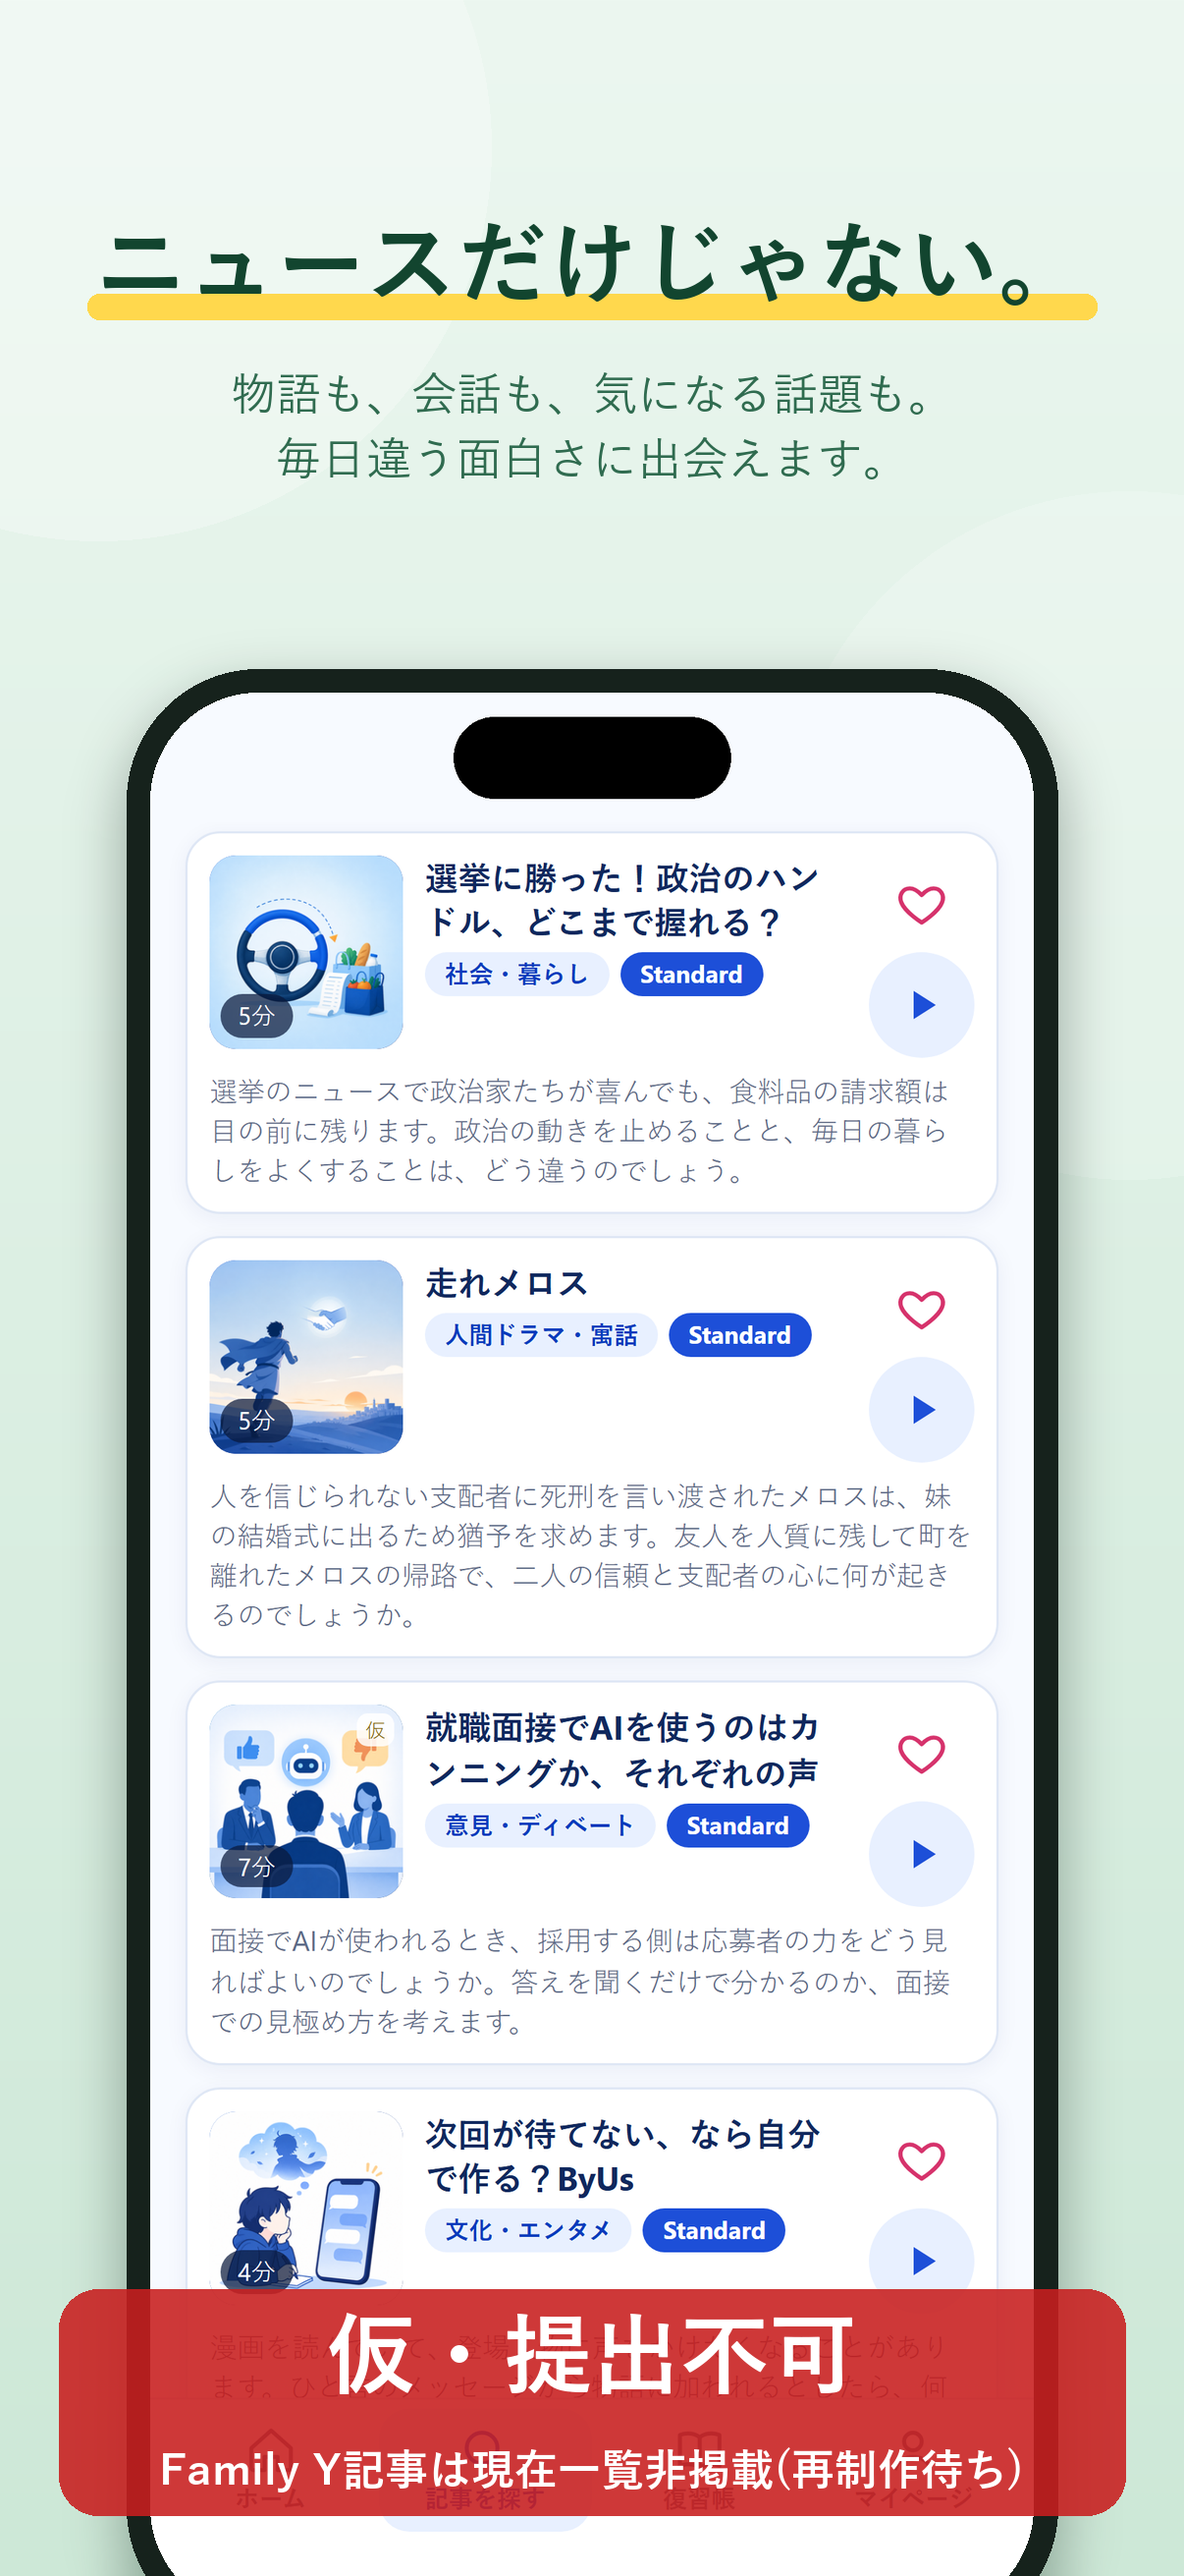
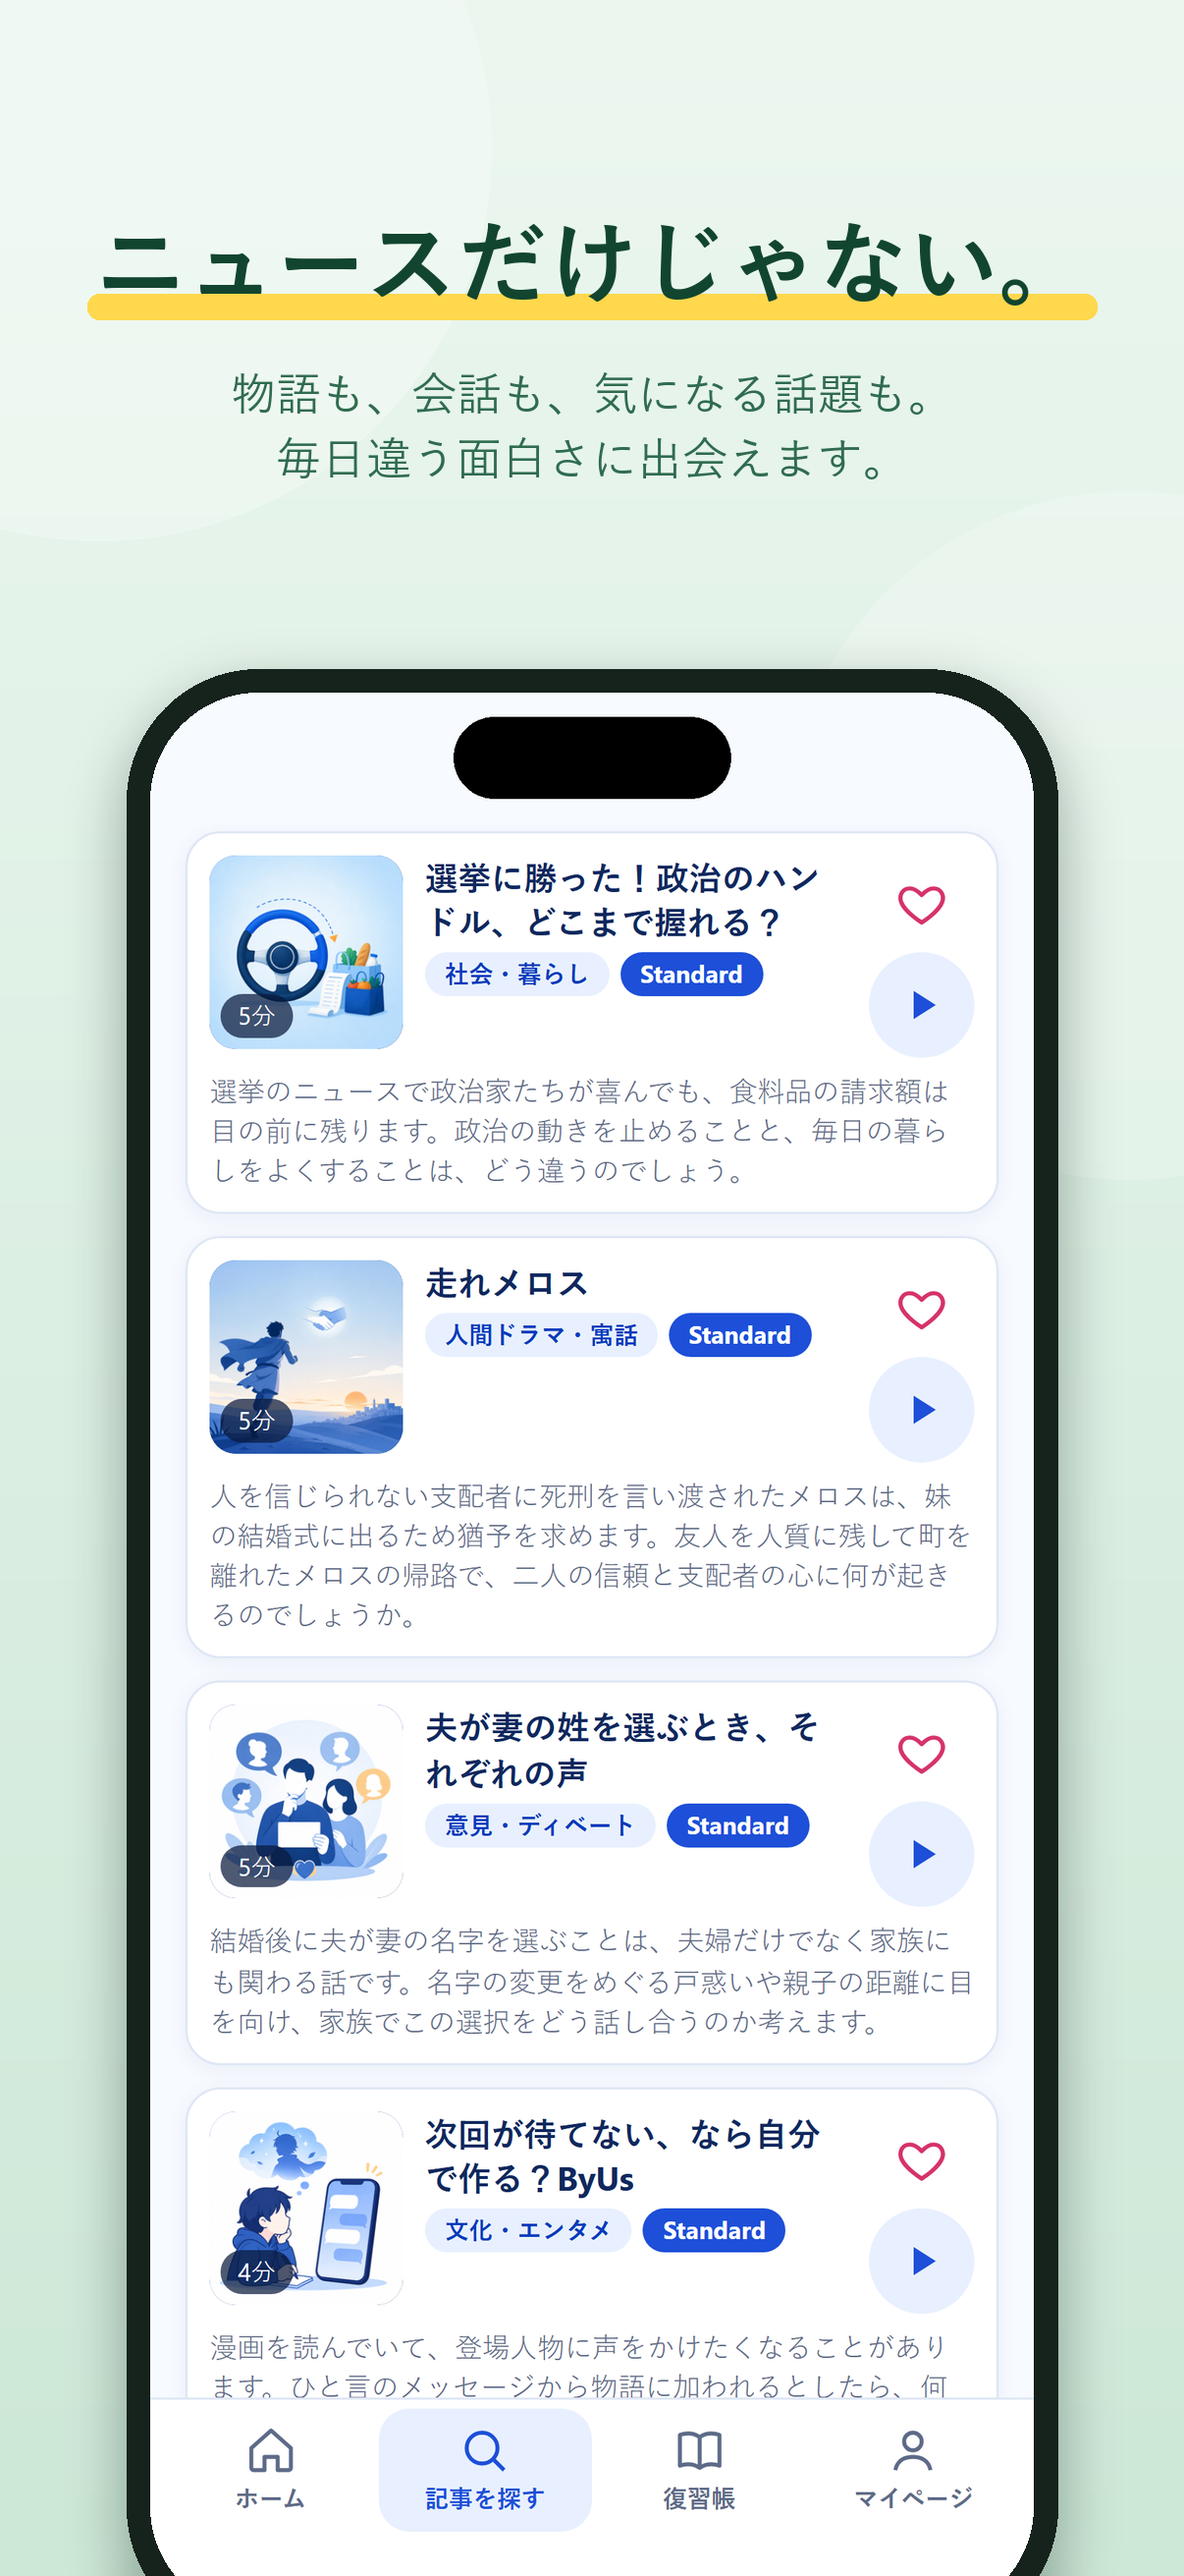
public sync from private 871353140cb5
Private-Source: 871353140cb5b32e0bf4d82890f3b0b7d66ce5ec

Changed region(s): [[0.0307, 0.865, 0.9511, 0.9886], [0.1534, 0.6487, 0.7977, 0.8032], [0.3682, 0.6487, 0.7056, 0.7105]]

diff --git a/user_test/appstore_screenshots_review_01/index.html b/user_test/appstore_screenshots_review_01/index.html
@@ -1,5 +1,6 @@
 <!doctype html><html lang="ja"><head><meta name="robots" content="noindex,nofollow"><meta name="eigo-radio-dev-page" content="v1" data-purpose="ui_verify"><meta charset="utf-8"><meta name="viewport" content="width=device-width,initial-scale=1"><title>App Store掲載画像 レビュー(開発用)</title>
-<style>body{font-family:system-ui,"Yu Gothic",sans-serif;background:#f4f7f5;margin:16px;color:#14452f}h1{font-size:20px}.row{display:flex;gap:12px;overflow-x:auto;padding:8px 0}figure{margin:0;flex:0 0 auto;width:402px}figcaption{font-size:13px;line-height:1.5}.st{color:#b00;font-weight:bold}.small img{margin-right:8px;border:1px solid #cdd}img{height:auto}</style></head><body><div id="eigo-radio-dev-banner" style="background:#fff3cd;border:1px solid #e0c36a;padding:6px 10px;font-size:.85rem;margin:0 0 6px;color:#222">開発・Trial用ページです(Production判断用ではありません)</div>
-<h1>App Store掲載用スクリーンショット(レビュー用・最終承認前・開発用) 版03(2026-11-28)</h1>
-<p>1206x2622 px・PNG・アルファなし(Apple「iPhone with Dynamic Island (medium display)」の必須サイズ)。撮影元=アプリ同梱Web層の最新版(Web build b7bffa21ca20、「ダウンロードした記事」名称統一を含む)+iOS会員UI(billing-integ-03)の再現。実機・シミュレーター撮影ではありません(Playwright)。<br>3枚目はFamily Yが一覧に載っていないため仮(提出不可)。6枚目は案A/案Bのどちらかを選ぶ必要があります。</p>
-<h2>縮小表示(150px)</h2><div class="small"><img src="appstore_01.png" width="150" alt="1枚目 面白さ"><img src="appstore_02.png" width="150" alt="2枚目 わかりやすさ"><img src="appstore_03_DRAFT.png" width="150" alt="3枚目 多彩さ"><img src="appstore_04.png" width="150" alt="4枚目 日常での使いやすさ"><img src="appstore_05.png" width="150" alt="5枚目 学習機能"><img src="appstore_06.png" width="150" alt="6枚目 無料体験(案A: 初回の無料体験ご案内画面)"></div><h2>端末相当サイズ(402px)</h2><div class="row"><figure><img src="appstore_01.png" width="402" alt="1枚目 面白さ"><figcaption><b>1枚目 面白さ</b><br>記事一覧 / Standard(指定4記事・指定順)<br><span class="st">提出可(最終承認待ち)</span></figcaption></figure><figure><img src="appstore_02.png" width="402" alt="2枚目 わかりやすさ"><figcaption><b>2枚目 わかりやすさ</b><br>SNS記事 Standard 聴く(Preview+英文ハイライト+日本語訳)<br><span class="st">提出可(最終承認待ち)</span></figcaption></figure><figure><img src="appstore_03_DRAFT.png" width="402" alt="3枚目 多彩さ"><figcaption><b>3枚目 多彩さ</b><br>記事一覧(Family Yは現在一覧非掲載のため旧公開版を仮に注入)<br><span class="st">提出不可(仮)</span></figcaption></figure><figure><img src="appstore_04.png" width="402" alt="4枚目 日常での使いやすさ"><figcaption><b>4枚目 日常での使いやすさ</b><br>再生中画面(片づけの合格点 / Standard)<br><span class="st">条件付き(バックグラウンド再生の実機確認が未)</span></figcaption></figure><figure><img src="appstore_05.png" width="402" alt="5枚目 学習機能"><figcaption><b>5枚目 学習機能</b><br>SNS記事 Advanced 学ぶ / make the cut<br><span class="st">提出可(最終承認待ち)</span></figcaption></figure><figure><img src="appstore_06.png" width="402" alt="6枚目 無料体験(案A: 初回の無料体験ご案内画面)"><figcaption><b>6枚目 無料体験(案A: 初回の無料体験ご案内画面)</b><br>実装済みの初回案内画面(決済不要・自動課金なし・毎日1記事)<br><span class="st">条件付き(画面を案A/案Bから選択)</span></figcaption></figure><figure><img src="appstore_06_ALT.png" width="402" alt="6枚目 無料体験(案B: マイページの無料体験中カード)"><figcaption><b>6枚目 無料体験(案B: マイページの無料体験中カード)</b><br>実装済みマイページの利用プラン表示(体験中・自動で有料会員にならない)<br><span class="st">条件付き(案Aの代替)</span></figcaption></figure></div></body></html>
+<style>body{font-family:system-ui,"Yu Gothic",sans-serif;background:#f4f7f5;margin:16px;color:#14452f}h1{font-size:20px}.row{display:flex;gap:12px;overflow-x:auto;padding:8px 0}figure{margin:0;flex:0 0 auto;width:402px}figcaption{font-size:13px;line-height:1.5}.st{color:#b00;font-weight:bold}.nt{color:#444}.small img{margin-right:8px;border:1px solid #cdd}img{height:auto}</style></head><body><div id="eigo-radio-dev-banner" style="background:#fff3cd;border:1px solid #e0c36a;padding:6px 10px;font-size:.85rem;margin:0 0 6px;color:#222">開発・Trial用ページです(Production判断用ではありません)</div>
+<h1>App Store掲載用スクリーンショット(レビュー用・最終承認前・開発用) 版04(2026-11-28)</h1>
+<p>6枚(6枚目は案A・案Bの2案)。1206x2622 px・PNG・アルファなし(Apple「iPhone with Dynamic Island (medium display)」の必須サイズ)。撮影元=アプリ同梱Web層の最新版(Web build b7bffa21ca20)+iOS会員UIの再現(Playwright)。実機・シミュレーター撮影ではありません。<br>
+<b>ご確認いただきたいこと</b>: (1) 6枚目は案Aと案Bのどちらにするか(案Bを推奨) (2) 3枚目は、題名・サムネイルを「夫が妻の姓を選ぶとき、それぞれの声」(Family Y2の新構成版)にした画像です。この記事を実際の記事一覧へ掲載する(別のご承認)までは、ストアに出せません。 App Store Connectへの登録・提出はまだ行っていません。</p>
+<h2>縮小表示(150px)</h2><div class="small"><img src="appstore_01.png" width="150" alt="1枚目 面白さ"><img src="appstore_02.png" width="150" alt="2枚目 わかりやすさ"><img src="appstore_03.png" width="150" alt="3枚目 多彩さ(Family Y2「夫が妻の姓を選ぶとき、それぞれの声」版)"><img src="appstore_04.png" width="150" alt="4枚目 日常での使いやすさ"><img src="appstore_05.png" width="150" alt="5枚目 学習機能"><img src="appstore_06.png" width="150" alt="6枚目 案A 初回の無料体験ご案内画面"></div><h2>端末相当サイズ(402px)</h2><div class="row"><figure><img src="appstore_01.png" width="402" alt="1枚目 面白さ"><figcaption><b>1枚目 面白さ</b><br>記事一覧(指定の4記事を指定の順に表示)<br><span class="st">提出できる状態(最終承認待ち)</span></figcaption></figure><figure><img src="appstore_02.png" width="402" alt="2枚目 わかりやすさ"><figcaption><b>2枚目 わかりやすさ</b><br>SNS記事 Standard 聴く(Preview・英文の再生中ハイライト・日本語訳)<br><span class="st">提出できる状態(最終承認待ち)</span></figcaption></figure><figure><img src="appstore_03.png" width="402" alt="3枚目 多彩さ(Family Y2「夫が妻の姓を選ぶとき、それぞれの声」版)"><figcaption><b>3枚目 多彩さ(Family Y2「夫が妻の姓を選ぶとき、それぞれの声」版)</b><br>記事一覧(選挙→走れメロス→夫が妻の姓を選ぶとき→ByUs)。3番目はまだ一覧にない新しい記事を撮影用に差し込んだ画面です<br><span class="st">画像は完成。ただし提出には条件あり</span><br><span class="nt">提出する前の条件: 「夫が妻の姓を選ぶとき、それぞれの声」が実際のアプリの記事一覧に載っていること(まだ載っていません。掲載はあなたの承認待ちです)。掲載後に、実際の一覧と題名・サムネイル・並びが一致するか確認し、違えば実際の一覧から撮り直して差し替えます。</span></figcaption></figure><figure><img src="appstore_04.png" width="402" alt="4枚目 日常での使いやすさ"><figcaption><b>4枚目 日常での使いやすさ</b><br>再生中画面(片づけの合格点 / Standard)<br><span class="st">条件付き: 提出前にバックグラウンド再生の実機確認が必要</span><br><span class="nt">「バックグラウンド再生」は実装済み(Info.plistの設定)。実機での確認は統合実機検証の項目(A02・B06・No.50)に入っており、検証が終わるまで未確認です。</span></figcaption></figure><figure><img src="appstore_05.png" width="402" alt="5枚目 学習機能"><figcaption><b>5枚目 学習機能</b><br>SNS記事 Advanced 学ぶ / make the cut<br><span class="st">提出できる状態(最終承認待ち)</span></figcaption></figure><figure><img src="appstore_06.png" width="402" alt="6枚目 案A 初回の無料体験ご案内画面"><figcaption><b>6枚目 案A 初回の無料体験ご案内画面</b><br>実装済みの初回案内画面(決済不要・自動課金なし・毎日1記事)。利用状況送信の同意文が同じ画面に入ります<br><span class="st">案A・案Bのどちらか1つを選んでください(どちらも提出できる状態)</span><br><span class="nt">推奨は案B(同意文が画像に入らず、無料体験の説明だけが伝わるため)。決めるのはあなたです。</span></figcaption></figure><figure><img src="appstore_06_ALT.png" width="402" alt="6枚目 案B マイページの「無料体験中」カード"><figcaption><b>6枚目 案B マイページの「無料体験中」カード</b><br>実装済みマイページの利用プラン表示(体験中・自動で有料会員にならない)<br><span class="st">案A・案Bのどちらか1つを選んでください(どちらも提出できる状態)</span><br><span class="nt">推奨は案B(上と同じ)。</span></figcaption></figure></div></body></html>
